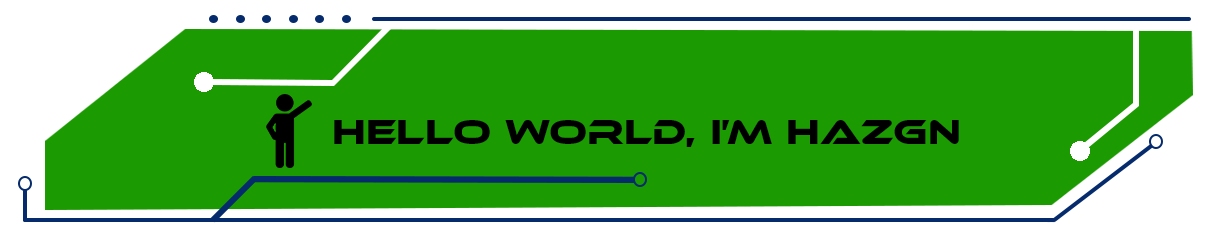
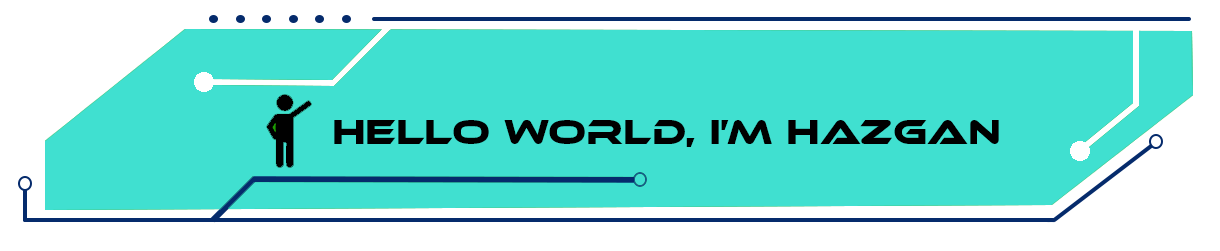
style: 💄 change image header github & theme badget

diff --git a/README.md b/README.md
@@ -19,7 +19,7 @@ I'm **Hazpi Nurafgan**, a passionate **Full Stack Developer** from **Jakarta, In
 
 <div align="center">
 
-[![GitHub Stats](https://github-readme-stats.vercel.app/api?username=hazgan25&show_icons=true&theme=chartreuse-dark&card_width=700)](https://github.com/hazgan25)
+[![GitHub Stats](https://github-readme-stats.vercel.app/api?username=hazgan25&show_icons=true&theme=blue-green&card_width=700)](https://github.com/hazgan25)
 
 </div>
 
@@ -74,7 +74,7 @@ Feel free to check out my repositories and see what I'm working on! [Visit My Gi
 
 <div align="center">
 
-[![Most Used Languages](https://github-readme-stats.vercel.app/api/top-langs/?username=hazgan25&layout=compact&langs_count=7&card_width=700&hide_title=false&custom_title=Languages&theme=chartreuse-dark)](https://github.com/hazgan25)
+[![Most Used Languages](https://github-readme-stats.vercel.app/api/top-langs/?username=hazgan25&layout=compact&langs_count=7&card_width=700&hide_title=false&custom_title=Languages&theme=blue-green)](https://github.com/hazgan25)
 
 </div>
 
